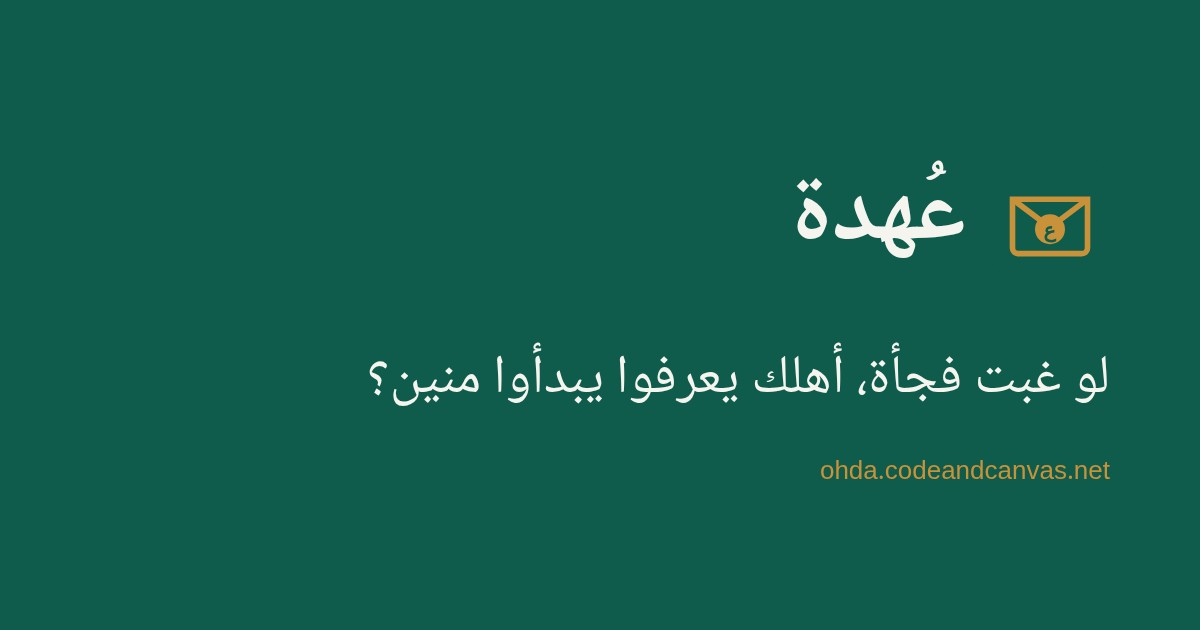
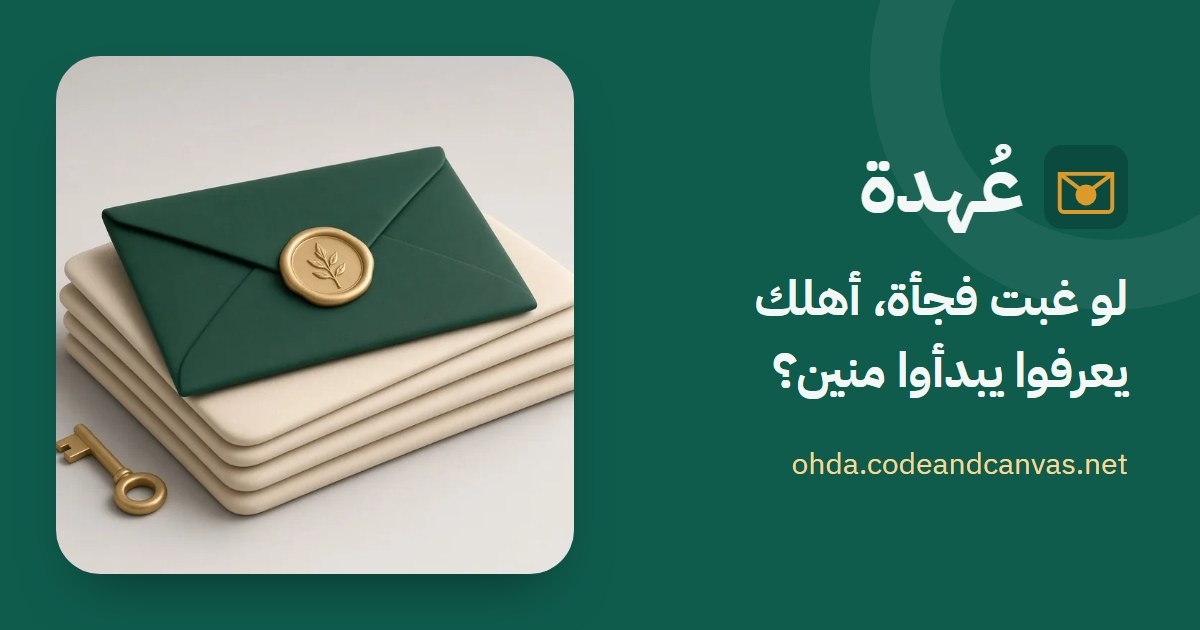
Add six illustrations and a new social card
Six soft 3D clay illustrations generated with Arena AI (no text, brand
colours), compressed to WebP (about 175 KB in total) and placed in:
- landing hero (mirrored so it sits left of the RTL text) and the
  privacy section;
- handover (gate and flow banner), activation banner, /open and quiz
  headers.
They are decorative (empty alt), sized with real width and height, lazy
loaded below the fold; above-the-fold ones load eagerly. Bundled as
hashed files under /assets (CSP img-src 'self').

public/og-image.jpg is rebuilt at 1200x630 with the illustration beside
the same name, tagline and URL as before.

Checked: tsc, lint, 113 tests, default and Vercel builds, secret scan,
e2e journey and CSP smoke on 11 routes, and no horizontal overflow or
broken image at 375, 768 and 1280px.

diff --git a/src/routes/index.tsx b/src/routes/index.tsx
@@ -1,5 +1,6 @@
 import { priceLabel } from "@/lib/pricing";
 import { createFileRoute, Link } from "@tanstack/react-router";
+import { Art } from "@/components/Art";
 import { Page, meta } from "@/components/Brand";
 
 export const Route = createFileRoute("/")({
@@ -49,26 +50,33 @@ function Landing() {
             aria-hidden="true"
             className="absolute -end-20 -top-24 size-80 rounded-full border-[52px] border-white/[0.06]"
           />
-          <div className="relative">
-            <p className="text-sm font-semibold text-gold-light">ملف لأهلك، مشفّر على جهازك</p>
-            <h1 className="mt-3 text-[2rem] leading-tight font-bold sm:text-5xl">
-              لو غبت فجأة… أهلك يعرفوا يبدأوا منين؟
-            </h1>
-            <p className="mt-5 max-w-2xl text-lg opacity-90">
-              عُهدة بتساعدك تكتب في 10 دقايق أهم الحاجات اللي أهلك محتاجين يعرفوها: الشغل، البنوك،
-              التأمين، الفلوس، الأوراق، ومين يكلموا الأول. وبتسلّمهولهم بكود مطبوع.
-            </p>
-            <div className="mt-8 flex flex-wrap gap-3">
-              <Link to="/start" className="btn-gold">
-                ابدأ ملفك مجانًا
-              </Link>
-              <Link
-                to="/quiz"
-                className="btn bg-white/10 text-primary-foreground hover:bg-white/20"
-              >
-                اختبر نفسك في دقيقة
-              </Link>
+          <div className="relative grid items-center gap-10 md:grid-cols-[1.15fr_1fr]">
+            <div>
+              <p className="text-sm font-semibold text-gold-light">ملف لأهلك، مشفّر على جهازك</p>
+              <h1 className="mt-3 text-[2rem] leading-tight font-bold sm:text-5xl">
+                لو غبت فجأة… أهلك يعرفوا يبدأوا منين؟
+              </h1>
+              <p className="mt-5 max-w-2xl text-lg opacity-90">
+                عُهدة بتساعدك تكتب في 10 دقايق أهم الحاجات اللي أهلك محتاجين يعرفوها: الشغل، البنوك،
+                التأمين، الفلوس، الأوراق، ومين يكلموا الأول. وبتسلّمهولهم بكود مطبوع.
+              </p>
+              <div className="mt-8 flex flex-wrap gap-3">
+                <Link to="/start" className="btn-gold">
+                  ابدأ ملفك مجانًا
+                </Link>
+                <Link
+                  to="/quiz"
+                  className="btn bg-white/10 text-primary-foreground hover:bg-white/20"
+                >
+                  اختبر نفسك في دقيقة
+                </Link>
+              </div>
             </div>
+            <Art
+              name="hero"
+              eager
+              className="aspect-[4/3] w-full rounded-[28px] object-left md:aspect-square md:object-[15%_center]"
+            />
           </div>
         </section>
       </div>
@@ -103,40 +111,43 @@ function Landing() {
           ))}
         </ol>
 
-        <section className="mt-14 rounded-2xl bg-mint p-6 sm:p-8">
-          <h2 className="text-2xl font-bold text-primary">بياناتك بتفضل معاك</h2>
-          <ul className="mt-4 space-y-2">
-            {[
-              "التشفير بيحصل على جهازك، قبل ما أي حاجة تتحفظ.",
-              "إحنا ما بنشوفش ولا بنخزّن ملفك. مفيش سيرفر عليه بياناتك.",
-              "مفيش حساب ولا إيميل ولا رقم موبايل مطلوب.",
-            ].map((t) => (
-              <li key={t} className="flex items-start gap-2.5">
-                <span aria-hidden="true" className="font-bold text-primary">
-                  ✓
-                </span>
-                <span>{t}</span>
-              </li>
-            ))}
-          </ul>
-          <h3 className="mt-6 font-bold">حاجات ما بنطلبهاش ولا المفروض تكتبها</h3>
-          <ul className="mt-2 space-y-1.5 text-muted-foreground">
-            {[
-              "كلمات السر ورموز التحقق (OTP).",
-              "أرقام الحسابات أو الكروت كاملة — اسم البنك ونوع الحساب كفاية.",
-              "عُهدة مش وصية قانونية ولا شرعية.",
-            ].map((t) => (
-              <li key={t} className="flex items-start gap-2.5">
-                <span aria-hidden="true" className="font-bold text-destructive">
-                  ✕
-                </span>
-                <span>{t}</span>
-              </li>
-            ))}
-          </ul>
-          <Link to="/security" className="btn-ghost mt-4 px-0">
-            إزاي بنحمي ملفك ←
-          </Link>
+        <section className="mt-14 grid items-center gap-8 rounded-[28px] bg-mint p-6 sm:p-8 md:grid-cols-[1.2fr_1fr]">
+          <div>
+            <h2 className="text-2xl font-bold text-primary">بياناتك بتفضل معاك</h2>
+            <ul className="mt-4 space-y-2">
+              {[
+                "التشفير بيحصل على جهازك، قبل ما أي حاجة تتحفظ.",
+                "إحنا ما بنشوفش ولا بنخزّن ملفك. مفيش سيرفر عليه بياناتك.",
+                "مفيش حساب ولا إيميل ولا رقم موبايل مطلوب.",
+              ].map((t) => (
+                <li key={t} className="flex items-start gap-2.5">
+                  <span aria-hidden="true" className="font-bold text-primary">
+                    ✓
+                  </span>
+                  <span>{t}</span>
+                </li>
+              ))}
+            </ul>
+            <h3 className="mt-6 font-bold">حاجات ما بنطلبهاش ولا المفروض تكتبها</h3>
+            <ul className="mt-2 space-y-1.5 text-muted-foreground">
+              {[
+                "كلمات السر ورموز التحقق (OTP).",
+                "أرقام الحسابات أو الكروت كاملة — اسم البنك ونوع الحساب كفاية.",
+                "عُهدة مش وصية قانونية ولا شرعية.",
+              ].map((t) => (
+                <li key={t} className="flex items-start gap-2.5">
+                  <span aria-hidden="true" className="font-bold text-destructive">
+                    ✕
+                  </span>
+                  <span>{t}</span>
+                </li>
+              ))}
+            </ul>
+            <Link to="/security" className="btn-ghost mt-4 px-0">
+              إزاي بنحمي ملفك ←
+            </Link>
+          </div>
+          <Art name="privacy" className="aspect-[4/3] w-full rounded-[24px] md:aspect-square" />
         </section>
 
         <section className="mt-14">

diff --git a/src/routes/open.tsx b/src/routes/open.tsx
@@ -1,6 +1,7 @@
 import { createFileRoute } from "@tanstack/react-router";
 import { useState } from "react";
 import { Page, meta } from "@/components/Brand";
+import { Art } from "@/components/Art";
 import { FilePicker } from "@/components/Kit";
 import { PlanView } from "@/components/PlanView";
 import { unlockWithCodes, validateEnvelope, type OhdaEnvelope } from "@/lib/ohdaCrypto";
@@ -71,13 +72,18 @@ function OpenPage() {
 
   return (
     <Page narrow>
-      <h1 className="text-[1.75rem] font-bold">افتح ملف أهلك</h1>
-      <p className="mt-2 text-muted-foreground">
-        الفتح بيحصل على جهازك بس. الملف والكود مش بيتبعتوا لأي مكان، ولا لينا.
-      </p>
-      <p className="mt-1 text-sm text-muted-foreground">
-        هي خطوتين بس: ترفع الملف، وبعدين تكتب الكود.
-      </p>
+      <div className="flex items-center gap-4 sm:gap-6">
+        <div className="min-w-0 flex-1">
+          <h1 className="text-[1.75rem] font-bold">افتح ملف أهلك</h1>
+          <p className="mt-2 text-muted-foreground">
+            الفتح بيحصل على جهازك بس. الملف والكود مش بيتبعتوا لأي مكان، ولا لينا.
+          </p>
+          <p className="mt-1 text-sm text-muted-foreground">
+            هي خطوتين بس: ترفع الملف، وبعدين تكتب الكود.
+          </p>
+        </div>
+        <Art name="open" eager className="size-24 shrink-0 rounded-[28px] sm:size-44" />
+      </div>
 
       <div className="panel mt-5 space-y-6">
         {/* Step 1: upload */}

diff --git a/src/components/Art.tsx b/src/components/Art.tsx
@@ -1,0 +1,48 @@
+/**
+ * The site's illustrations (soft 3D clay style, generated with Arena AI, compressed to WebP).
+ * All are decorative: the page text carries the meaning, so the alt text is empty.
+ * Sizes are the files' real pixel sizes so the browser reserves the space before they load.
+ */
+import hero from "@/assets/art/hero.webp";
+import privacy from "@/assets/art/privacy.webp";
+import handover from "@/assets/art/handover.webp";
+import open from "@/assets/art/open.webp";
+import quiz from "@/assets/art/quiz.webp";
+import activate from "@/assets/art/activate.webp";
+
+const ART = {
+  /** envelope with a gold seal on folders; mirrored so the picture sits on the left of RTL text */
+  hero: { src: hero, w: 1280, h: 720 },
+  privacy: { src: privacy, w: 1280, h: 720 },
+  handover: { src: handover, w: 1280, h: 720 },
+  open: { src: open, w: 1280, h: 1280 },
+  quiz: { src: quiz, w: 1280, h: 1280 },
+  activate: { src: activate, w: 1280, h: 720 },
+} as const;
+export type ArtName = keyof typeof ART;
+
+export function Art({
+  name,
+  className = "",
+  eager,
+}: {
+  name: ArtName;
+  className?: string;
+  /** above the fold: load now and at high priority */
+  eager?: boolean;
+}) {
+  const a = ART[name];
+  return (
+    <img
+      src={a.src}
+      width={a.w}
+      height={a.h}
+      alt=""
+      decoding="async"
+      loading={eager ? "eager" : "lazy"}
+      {...(eager ? { fetchPriority: "high" as const } : {})}
+      draggable={false}
+      className={`block select-none bg-muted object-cover ${className}`}
+    />
+  );
+}

diff --git a/src/routes/handover.tsx b/src/routes/handover.tsx
@@ -2,6 +2,7 @@ import { PLAN_NAME, priceLabel } from "@/lib/pricing";
 import { createFileRoute, Link } from "@tanstack/react-router";
 import { useEffect, useState } from "react";
 import { Page, meta, LogoMark } from "@/components/Brand";
+import { Art } from "@/components/Art";
 import { CodeText, StepItem, type StepState } from "@/components/Kit";
 import { NeedUnlock } from "@/components/Fields";
 import { makeCodeWrap, newDataKey, normalizeCode, sealContent } from "@/lib/ohdaCrypto";
@@ -66,6 +67,7 @@ function Handover() {
 function NotActivated() {
   return (
     <div className="panel space-y-5">
+      <Art name="handover" className="h-36 w-full rounded-[22px] sm:h-48" />
       <div>
         <p className="eyebrow">خطوة أخيرة قبل التسليم</p>
         <h1 className="mt-1 text-2xl font-bold">سلّم أهلك</h1>
@@ -288,6 +290,7 @@ function Flow({ act }: { act: Activation }) {
 
   return (
     <Page narrow>
+      <Art name="handover" className="mb-5 h-32 w-full rounded-[28px] sm:h-44" />
       <div className="mb-6 space-y-2">
         <div className="flex flex-wrap items-center justify-between gap-2">
           <h1 className="text-[1.75rem] font-bold">سلّم أهلك</h1>

diff --git a/src/routes/quiz.tsx b/src/routes/quiz.tsx
@@ -1,5 +1,6 @@
 import { createFileRoute, Link } from "@tanstack/react-router";
 import { useState } from "react";
+import { Art } from "@/components/Art";
 import { Page, meta } from "@/components/Brand";
 import { quizGaps, writeQuizGaps } from "@/lib/home";
 
@@ -55,7 +56,10 @@ function Quiz() {
 
   return (
     <Page narrow>
-      <h1 className="text-2xl font-bold">لو غبت فجأة… أهلك يعرفوا يبدأوا منين؟</h1>
+      <div className="flex items-center gap-4 sm:gap-6">
+        <h1 className="min-w-0 flex-1 text-2xl font-bold">لو غبت فجأة… أهلك يعرفوا يبدأوا منين؟</h1>
+        <Art name="quiz" eager className="size-20 shrink-0 rounded-[24px] sm:size-32" />
+      </div>
       {!done ? (
         <div className="mt-6">
           <div className="h-2 overflow-hidden rounded-full bg-muted">

diff --git a/src/routes/activate.tsx b/src/routes/activate.tsx
@@ -1,5 +1,6 @@
 import { createFileRoute, Link } from "@tanstack/react-router";
 import { useEffect, useState } from "react";
+import { Art } from "@/components/Art";
 import { Page, meta } from "@/components/Brand";
 import { redeemActivation } from "@/lib/activation.functions";
 import { DEMO, DEMO_CODES, demoRedeem, writeDemoActivation } from "@/lib/demo";
@@ -103,6 +104,7 @@ function Activate() {
 
   return (
     <Page narrow>
+      <Art name="activate" eager className="mb-5 h-32 w-full rounded-[28px] sm:h-44" />
       <h1 className="text-2xl font-bold">التفعيل</h1>
       {act && (
         <div className="notice mt-4">
